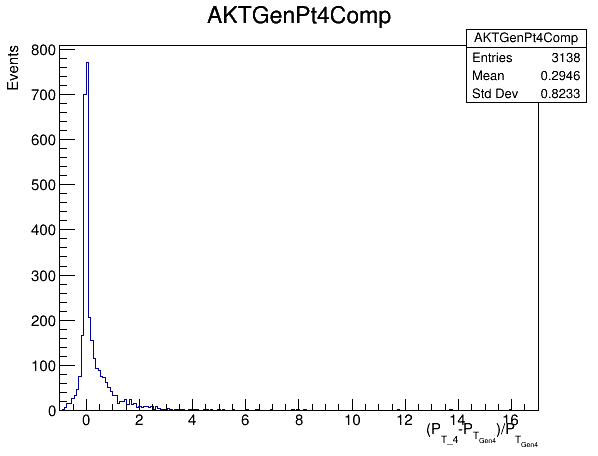
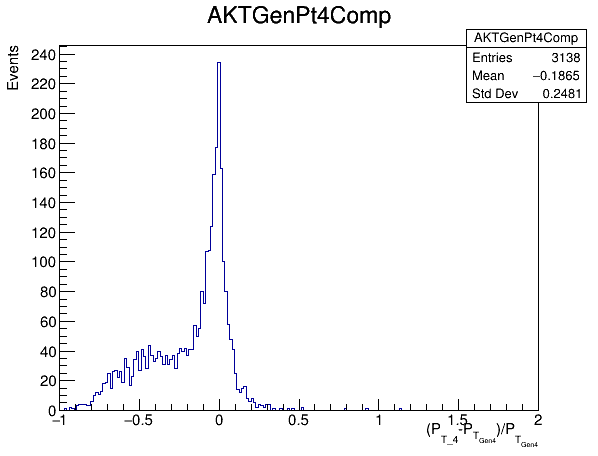
Update resolution info

diff --git a/Delphes/src/PairingDiHiggs.C b/Delphes/src/PairingDiHiggs.C
@@ -49,17 +49,17 @@ void PairingDiHiggs(const char *inputFile, const char *outputFile){
 
      Int_t nEntries = tree_sig->GetEntries();
 
-     TH1D *AKTjetMass1 = new TH1D("AKTjetMass1", "Anti_KTjet leading jets pair invariant mass", 200 , 0, 600); 
-     TH1D *AKTjetMass2 = new TH1D("AKTjetMass2", "Anti_KTjet sub-leading jets pair invariant mass", 200 , 0, 600); 
+     TH1D *AKTjetMass1 = new TH1D("AKTjetMass1", "Anti_KTjet leading jets pair invariant mass", 150 , 0, 400); 
+     TH1D *AKTjetMass2 = new TH1D("AKTjetMass2", "Anti_KTjet sub-leading jets pair invariant mass", 150 , 0, 400); 
      TH1D *GenAKTMass2 = new TH1D("GenAKTMass2", "GenAKTMass2", 100 , 0, 600); 
      TH1D *AKTGenMass1Comp = new TH1D("AKTGenMass1Comp", "AKTGenMass1Comp", 200 , -1, 2); 
      TH1D *AKTGenMass2Comp = new TH1D("AKTGenMass2Comp", "AKTGenMass2Comp", 200 , -1, 2); 
      TH1D *GenUncutMass2 = new TH1D("GenUncutMass2", "GenUncutMass2", 100 , 0, 600); 
  
-     TH1D *AKTGenPt1Comp = new TH1D("AKTGenPt1Comp", "AKTGenPt1Comp", 200 , -1, 7); 
-     TH1D *AKTGenPt2Comp = new TH1D("AKTGenPt2Comp", "AKTGenPt2Comp", 200 , -1, 2); 
-     TH1D *AKTGenPt3Comp = new TH1D("AKTGenPt3Comp", "AKTGenPt3Comp", 200 , -1, 16); 
-     TH1D *AKTGenPt4Comp = new TH1D("AKTGenPt4Comp", "AKTGenPt4Comp", 200 , -1, 17); 
+     TH1D *AKTGenPt1Comp = new TH1D("AKTGenPt1Comp", "AKTGenPt1Comp", 200 , -1, 9); 
+     TH1D *AKTGenPt2Comp = new TH1D("AKTGenPt2Comp", "AKTGenPt2Comp", 200 , -1, 9); 
+     TH1D *AKTGenPt3Comp = new TH1D("AKTGenPt3Comp", "AKTGenPt3Comp", 200 , -1, 9); 
+     TH1D *AKTGenPt4Comp = new TH1D("AKTGenPt4Comp", "AKTGenPt4Comp", 200 , -1, 2); 
 
      Double_t AKTjet1eta1;
      Double_t AKTjet1phi1;
@@ -374,23 +374,38 @@ void PairingDiHiggs(const char *inputFile, const char *outputFile){
 	     Genh2=GenJet3+GenJet4;
 	     GenJetMass = Genh2.Mag();
              Double_t AKTGenMass2diff = (AKTjetpair2Mass - GenJetMass)/GenJetMass;
-
-	     Double_t AKTGenPt1diff = (AKTjet1pt1 - Gen1pt)/Gen1pt;
-	     Double_t AKTGenPt2diff = (AKTjet1pt2 - Gen2pt)/Gen2pt;
-	     Double_t AKTGenPt3diff = (AKTjet2pt1 - Gen3pt)/Gen3pt;
-	     Double_t AKTGenPt4diff = (AKTjet2pt2 - Gen4pt)/Gen4pt;
+             
+	     Double_t AKTpt[] = { AKTjet1pt1, AKTjet1pt2, AKTjet2pt1, AKTjet2pt2 };
+	     int AKTsize = sizeof(AKTpt) / sizeof(AKTpt[0]);
+             
+	     Double_t Genpt[] = { Gen1pt, Gen2pt, Gen3pt, Gen4pt };
+	     int Gensize = sizeof(Genpt) / sizeof(Genpt[0]);
+              
+	     for (int i=0; i<4; i++) {
+	         for (int j=i+1; j<4; j++) {
+		     if (AKTpt[j] > AKTpt[i]) {
+                         swap(AKTpt[j], AKTpt[i]);
+			 swap(Genpt[j], Genpt[i]);
+		     }
+		 }
+	     }
+	     Double_t AKTGenPt1diff = (AKTpt[0] - Genpt[0])/Genpt[0];
+	     Double_t AKTGenPt2diff = (AKTpt[1] - Genpt[1])/Genpt[1];
+	     Double_t AKTGenPt3diff = (AKTpt[2] - Genpt[2])/Genpt[2];
+	     Double_t AKTGenPt4diff = (AKTpt[3] - Genpt[3])/Genpt[3];
 
              if (AKT1jet1flag==true and AKT1jet2flag==true and AKT2jet1flag==true and AKT2jet2flag==true){
-	         
-		 AKTjetMass1->Fill(AKTjetpair1Mass);
-                 AKTjetMass2->Fill(AKTjetpair2Mass);
-		 //GenAKTMass2->Fill(GenJetMass);
-	         AKTGenMass1Comp->Fill(AKTGenMass1diff);
-	         AKTGenMass2Comp->Fill(AKTGenMass2diff);
-		 AKTGenPt1Comp->Fill(AKTGenPt1diff);
+	         AKTGenPt1Comp->Fill(AKTGenPt1diff);
 		 AKTGenPt2Comp->Fill(AKTGenPt2diff);
 		 AKTGenPt3Comp->Fill(AKTGenPt3diff);
 		 AKTGenPt4Comp->Fill(AKTGenPt4diff);
+	         if (abs(AKTGenPt1diff)<0.15 and abs(AKTGenPt2diff)<0.15 and abs(AKTGenPt3diff)<0.15 and abs(AKTGenPt4diff)<0.15) { 
+		     AKTjetMass1->Fill(AKTjetpair1Mass);
+                     AKTjetMass2->Fill(AKTjetpair2Mass);
+		     //GenAKTMass2->Fill(GenJetMass);
+	             AKTGenMass1Comp->Fill(AKTGenMass1diff);
+	             AKTGenMass2Comp->Fill(AKTGenMass2diff);
+		 }
 	     } 
              //AKTjetMass1->Fill(AKTjetpair1Mass);
              //AKTjetMass2->Fill(AKTjetpair2Mass);
@@ -402,28 +417,28 @@ void PairingDiHiggs(const char *inputFile, const char *outputFile){
      TF1 *jetpair1fit = new TF1("jetpair1fit", "[0]*exp(-0.5*((x-[1])/[2])^2)+[3]*exp(-0.5*((x-[1])/[4])^2)",25,600);
      TF1 *jetpair2fit = new TF1("jetpair2fit", "[0]*exp(-0.5*((x-[1])/[2])^2)+[3]*exp(-0.5*((x-[1])/[4])^2)+expo(5)",25,600);
      TF1 *fSignal = new TF1("fSignal","gaus+gaus(3)",20,600);
-     TF1 *fBackground = new TF1("fBackground","expo", 20,600);
+     TF1 *fBackground = new TF1("fBackground","expo",20,600);
      TF1 *f1peak = new TF1("f1peak","gaus",20,600);
      TF1 *f2peak = new TF1("f2peak","gaus",20,600);
      Double_t param[8];
 
      jetpair2fit->SetParameters(200,120,10,20,10,2,-0.0001);
-     jetpair2fit->SetParLimits(0,80,200);
+     jetpair2fit->SetParLimits(0,30,100);
      jetpair2fit->SetParLimits(1,100,140);
-     jetpair2fit->SetParLimits(2,5,40);
-     jetpair2fit->SetParLimits(5,0,8);
+     jetpair2fit->SetParLimits(2,10,30);
+     jetpair2fit->SetParLimits(5,0,20);
      jetpair2fit->SetParLimits(6,-1,-0.0001);
      //jetpair2fit->SetParLimits(4,50,109);
-     jetpair2fit->SetParLimits(3,0,40);
-     jetpair2fit->SetParLimits(4,0,30);
+     jetpair2fit->SetParLimits(3,10,50);
+     jetpair2fit->SetParLimits(4,0,10);
      
      jetpair1fit->SetParameters(300,120,10,40,20);
-     jetpair1fit->SetParLimits(0,100,400);
+     jetpair1fit->SetParLimits(0,50,350);
      jetpair1fit->SetParLimits(1,100,140);
      jetpair1fit->SetParLimits(2,5,30);
      /*jetpair1fit->SetParLimits(6,0,8);
      jetpair1fit->SetParLimits(7,-1.5,-0.0001);*/
-     //jetpair1fit->SetParLimits(4,120,140);
+     jetpair1fit->SetParLimits(3,0,60);
      jetpair1fit->SetParLimits(4,5,40);
 
 
